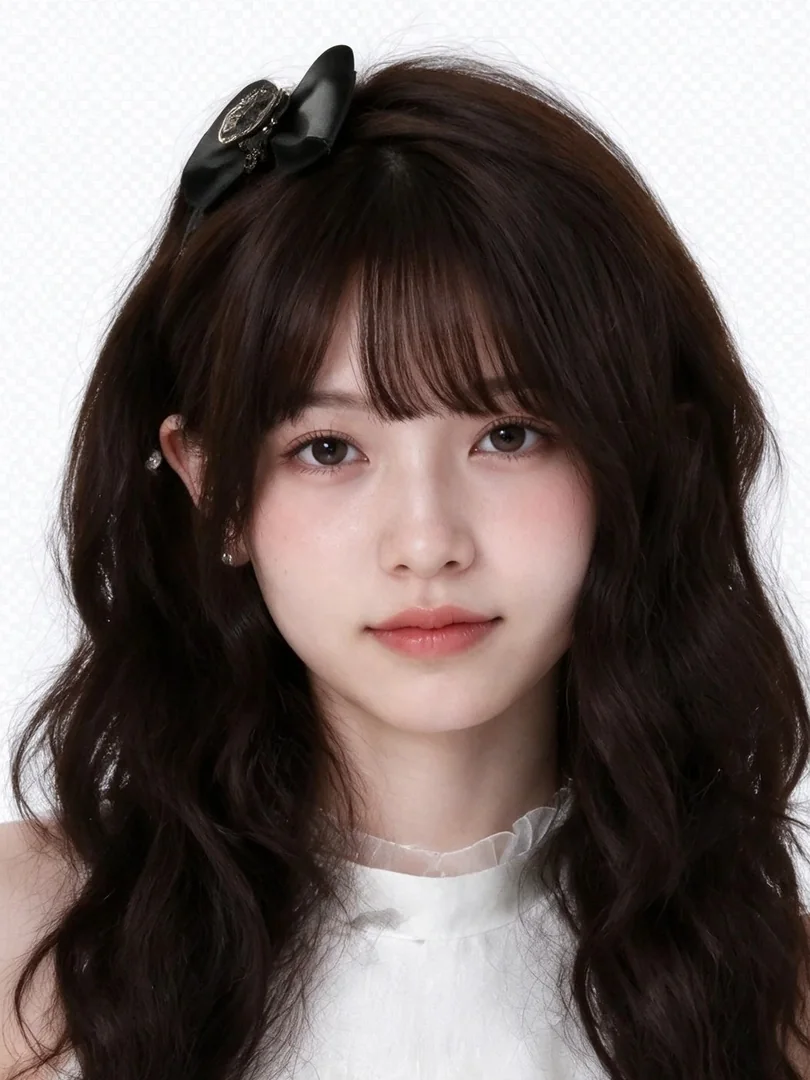
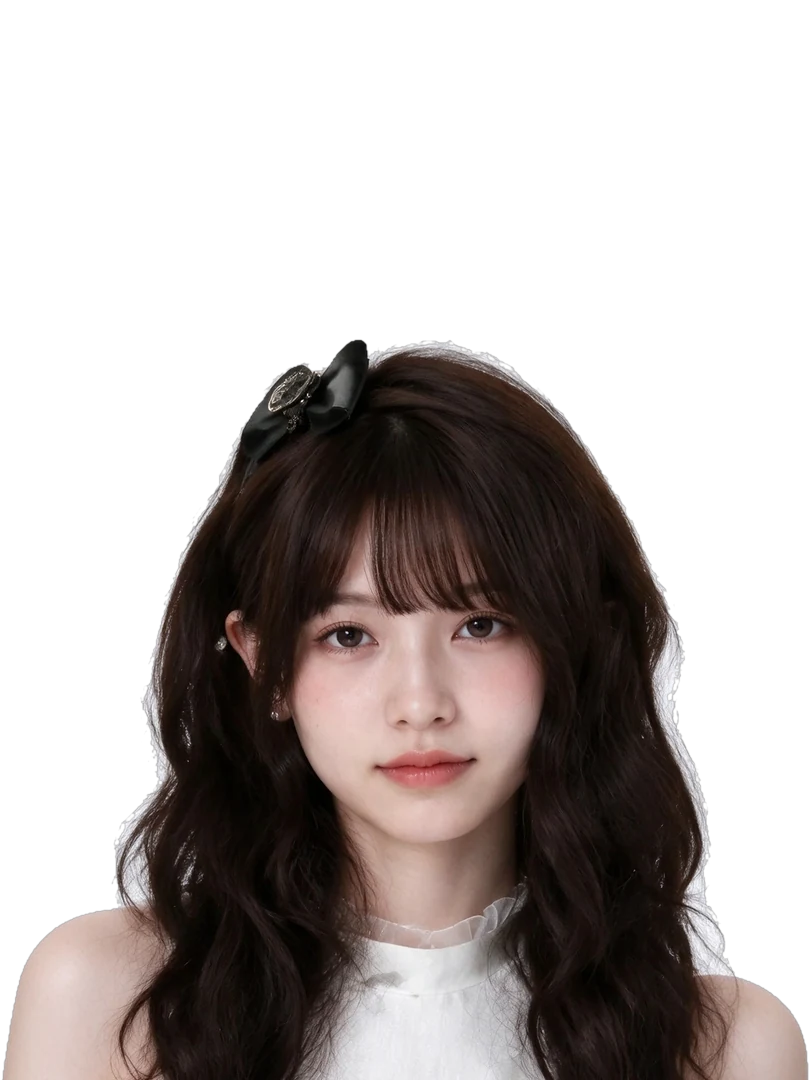
立绘

diff --git a/src/ui/ui.js b/src/ui/ui.js
@@ -352,6 +352,8 @@ export function createApp(ctx) {
     if (!ch) return null;
     const file = (ch.portrait && ch.portrait.file) || '';
     const silhouette = !file || (ch.portrait && ch.portrait.silhouette);
+    // cutout：透明底立绘，直接贴到场景上（不套白卡、不裁底、不画名牌）
+    const cutout = !silhouette && !!(ch.portrait && ch.portrait.cutout);
     const emo = emotion || 'neutral';
     const art = silhouette
       ? null
@@ -359,8 +361,9 @@ export function createApp(ctx) {
           class: 'vn-npc__art',
           style: 'background-image:url("' + file + '")',
         });
+    const mods = (silhouette ? ' vn-npc--silhouette' : '') + (cutout ? ' vn-npc--cutout' : '');
     return h('div', {
-      class: 'vn-npc vn-npc--' + emo + (silhouette ? ' vn-npc--silhouette' : ''),
+      class: 'vn-npc vn-npc--' + emo + mods,
       'aria-hidden': 'true',
     }, [
       h('div', { class: 'vn-npc__card' }, [
@@ -370,7 +373,7 @@ export function createApp(ctx) {
               h('span', { class: 'vn-npc__initial' }, [String(ch.name || '?').slice(0, 1)]),
             ])
           : null,
-        h('div', { class: 'vn-npc__plate' }, [String(ch.name || '')]),
+        cutout ? null : h('div', { class: 'vn-npc__plate' }, [String(ch.name || '')]),
       ]),
     ]);
   }
@@ -2024,11 +2027,12 @@ export function createApp(ctx) {
       const got = allEvents().filter((e) => e && e.charId === c.id && seen.indexOf(e.id) >= 0).length;
       const file = (c.portrait && c.portrait.file) || '';
       const silhouette = !file || (c.portrait && c.portrait.silhouette);
+      const cutout = !silhouette && !!(c.portrait && c.portrait.cutout);
       const pct = Math.max(0, Math.min(100, (Number(rel.affinity) || 0) / max * 100));
       return h('div', { class: 'vn-rel' + (rel.met ? '' : ' is-unmet') }, [
         h('div', { class: 'vn-rel__card' }, [
           h('div', {
-            class: 'vn-rel__art' + (silhouette ? ' is-silhouette' : ''),
+            class: 'vn-rel__art' + (silhouette ? ' is-silhouette' : '') + (cutout ? ' is-cutout' : ''),
             style: silhouette ? '' : 'background-image:url("' + file + '")',
           }, silhouette
             ? [h('span', { class: 'vn-rel__initial' }, [String(c.name || '?').slice(0, 1)])]

diff --git a/css/style.css b/css/style.css
@@ -4527,6 +4527,36 @@ body { font-synthesis: none; }
   text-shadow: 0 10px 30px rgba(0, 0, 0, 0.4);
 }
 
+/* 37.1b 透明底立绘（cutout）：不套白卡、不裁底、不画名牌，直接站在场景里 */
+.vn-npc--cutout { width: min(460px, 34vw); height: min(84vh, 760px); }
+.vn-npc--cutout .vn-npc__card {
+  background: none;
+  box-shadow: none;
+  border-radius: 0;
+  overflow: visible;
+  -webkit-mask-image: none;
+  mask-image: none;
+}
+.vn-npc--cutout .vn-npc__art {
+  background-size: contain;
+  background-position: bottom center;
+  background-repeat: no-repeat;
+  filter: drop-shadow(0 22px 26px rgba(20, 16, 15, 0.38));
+}
+.vn-event__npc .vn-npc--cutout { height: 100%; }
+/* 事件弹层里的立绘底下没有对话框挡着，给最后一段加一点渐隐，避免看到「截断的胸口」 */
+.vn-event__npc .vn-npc--cutout .vn-npc__art {
+  -webkit-mask-image: linear-gradient(180deg, #000 86%, rgba(0, 0, 0, 0) 100%);
+  mask-image: linear-gradient(180deg, #000 86%, rgba(0, 0, 0, 0) 100%);
+}
+.vn-rel__art.is-cutout {
+  background-color: transparent;
+  background-size: contain;
+  background-position: bottom center;
+  background-repeat: no-repeat;
+  filter: drop-shadow(0 8px 14px rgba(20, 16, 15, 0.18));
+}
+
 /* 37.2 事件里的角色立绘：贴在事件卡右侧 */
 .vn-event__npc {
   position: absolute;

diff --git a/tools/_cutout.py b/tools/_cutout.py
@@ -1,0 +1,159 @@
+"""
+把「近白/浅棋盘格底」的立绘抠成透明底，输出 810x1080 RGBA WebP。
+
+做法（无 scipy 依赖）：
+  1. 取图像的浅色背景参考色（只采上/左/右三边，避开底部衣物）；
+  2. 在 640 长边的缩略图上，把「与背景色差 ≤ tol」的像素标成 bg 候选；
+  3. 从顶部/左右边界做 BFS，只有 bg 候选会被填；底部不播种，避免漏进白衣服；
+  4. 缩略 mask 放大回原图，再向下「填洞」（图内未连到边界的 bg 候选算前景）；
+  5. alpha 羽化 1px，裁到内容包围盒，等比缩到高 1080，底对齐放在 810x1080 透明画布上。
+"""
+from PIL import Image, ImageFilter
+from collections import deque
+import numpy as np
+import os
+import sys
+
+SRC = {
+    'jiangxu': '豆包.png',
+    'guchi': '豆包 (1).png',
+    'linyu': '豆包 (2).png',
+    'suwan': '豆包 (3).png',
+    'tangtang': '豆包 (5).png',
+    'zhouye': '豆包 (6).png',
+}
+IN_DIR = r"C:\Users\Le'novo\Downloads"
+OUT_DIR = os.path.join('media', 'characters')
+CHECK_DIR = os.path.join('media', 'shots', 'charcheck')
+TOL = int(sys.argv[1]) if len(sys.argv) > 1 else 16
+# 个别图的浅色衣服与白底几乎同色，用更低的容差可以让填充停在衣服的阴影边缘
+TOL_BY_CHAR = {'guchi': 6}
+CHECK = '--check' in sys.argv
+
+
+def bg_reference(arr):
+    h, w, _ = arr.shape
+    pts = []
+    for x in range(0, w, 7):
+        pts.append(arr[2, x]); pts.append(arr[max(0, h // 6), x])
+    for y in range(0, h // 2, 7):
+        pts.append(arr[y, 2]); pts.append(arr[y, w - 3])
+    med = np.median(np.array(pts, dtype=np.float32), axis=0)
+    return med
+
+
+def build_alpha(rgb, tol=TOL):
+    arr = np.asarray(rgb, dtype=np.float32)
+    h, w, _ = arr.shape
+    ref = bg_reference(arr)
+
+    small_max = 640
+    scale = min(1.0, small_max / max(h, w))
+    sw, sh = max(8, int(w * scale)), max(8, int(h * scale))
+    small = np.asarray(rgb.resize((sw, sh), Image.LANCZOS), dtype=np.float32)
+
+    diff = np.abs(small - ref).max(axis=2)
+    bg_cand = diff <= tol
+
+    filled = np.zeros((sh, sw), dtype=bool)
+    dq = deque()
+    # 播种：整条上边界 + 左/右边界上半段。
+    # 下半段不播种：那里通常是白衬衫/浅色衣服贴着画面边，播进去会把衣服啃掉一块。
+    seed_bottom = int(sh * 0.70)
+    for x in range(sw):
+        if bg_cand[0, x]:
+            filled[0, x] = True; dq.append((0, x))
+    for y in range(seed_bottom):
+        for x in (0, sw - 1):
+            if bg_cand[y, x] and not filled[y, x]:
+                filled[y, x] = True; dq.append((y, x))
+    while dq:
+        y, x = dq.popleft()
+        for dy, dx in ((1, 0), (-1, 0), (0, 1), (0, -1)):
+            ny, nx = y + dy, x + dx
+            if 0 <= ny < sh and 0 <= nx < sw and bg_cand[ny, nx] and not filled[ny, nx]:
+                filled[ny, nx] = True
+                dq.append((ny, nx))
+
+    alpha_small = np.where(filled, 0, 255).astype(np.uint8)
+    # 边缘软化：紧贴背景的一圈按「与背景的色差」给半透明，
+    # 把白底合成留下的白雾变成自然的柔边，而不是一圈硬白边
+    dil = filled.copy()
+    for _ in range(4):
+        nd = dil.copy()
+        nd[1:, :] |= dil[:-1, :]
+        nd[:-1, :] |= dil[1:, :]
+        nd[:, 1:] |= dil[:, :-1]
+        nd[:, :-1] |= dil[:, 1:]
+        dil = nd
+    band = dil & ~filled
+    ramp = (np.clip((diff - 6.0) / 26.0, 0.0, 1.0) * 255.0).astype(np.uint8)
+    alpha_small[band] = np.minimum(alpha_small[band], ramp[band])
+    alpha = Image.fromarray(alpha_small, 'L').resize((w, h), Image.BILINEAR)
+    # 图内「没连到边界的浅色区域」也算前景（白衬衫/白毛衣不被挖空）
+    filled_full = np.asarray(alpha, dtype=np.uint8) < 128
+    alpha = Image.fromarray(np.where(filled_full, 0, 255).astype(np.uint8), 'L')
+
+    # 羽化边缘
+    alpha = alpha.filter(ImageFilter.GaussianBlur(1.0))
+    return alpha
+
+
+def main():
+    os.makedirs(OUT_DIR, exist_ok=True)
+    if CHECK:
+        os.makedirs(CHECK_DIR, exist_ok=True)
+    for cid, name in SRC.items():
+        path = os.path.join(IN_DIR, name)
+        im = Image.open(path).convert('RGB')
+        # 先切掉底部 10%（AI 水印所在行），再做抠图；游戏里下半身本来就被对话框盖住
+        im = im.crop((0, 0, im.width, int(im.height * 0.90)))
+        alpha = build_alpha(im, TOL_BY_CHAR.get(cid, TOL))
+        # 向内收 1px，去掉浅色背景在边缘留下的白边
+        alpha = alpha.filter(ImageFilter.MinFilter(3)).filter(ImageFilter.GaussianBlur(0.8))
+        bbox = alpha.getbbox()
+        if not bbox:
+            print('!! no content', cid); continue
+        cut = im.crop(bbox)
+        raw = cut.copy()          # 保留未去白底的原色，KEEP 区域用它覆盖
+        a = alpha.crop(bbox)
+        cut.putalpha(a)
+
+        # 去白边（decontaminate）：原图是「人像合成在白底」上的，
+        # 半透明边缘像素 = a*C + (1-a)*白，反解出 C，避免人物边上留一圈白雾。
+        arr = np.asarray(cut.convert('RGB'), dtype=np.float32)
+        av = np.asarray(a, dtype=np.float32) / 255.0
+        safe = np.clip(av, 0.18, 1.0)[..., None]
+        arr = np.clip((arr - (1.0 - safe) * 255.0) / safe, 0, 255).astype(np.uint8)
+        cut = Image.fromarray(arr, 'RGB')
+        cut.putalpha(a)
+
+        # 等比缩放到高 1080，底对齐放到 810x1080 透明画布
+        cw, ch = cut.size
+        target_h = 1080
+        target_w = max(1, round(cw * target_h / ch))
+        if target_w > 810:
+            target_w = 810
+            target_h = max(1, round(ch * target_w / cw))
+        cut = cut.resize((target_w, target_h), Image.LANCZOS)
+        raw = raw.resize((target_w, target_h), Image.LANCZOS)
+        canvas = Image.new('RGBA', (810, 1080), (0, 0, 0, 0))
+        canvas.paste(cut, ((810 - target_w) // 2, 1080 - target_h), cut)
+
+        dst = os.path.join(OUT_DIR, cid + '.webp')
+        canvas.save(dst, 'WEBP', quality=88, method=6)
+        kept = (np.asarray(canvas.getchannel('A')) > 8).mean() * 100
+        print(f'{cid:9s} {name:12s} bbox={bbox} -> {canvas.size} '
+              f'{os.path.getsize(dst)}B  opaque={kept:.1f}%')
+
+        if CHECK:
+            for tag, bg in (('magenta', (255, 0, 255)), ('dark', (28, 24, 22)), ('paper', (250, 247, 246))):
+                flat = Image.new('RGB', canvas.size, bg)
+                flat.paste(canvas, (0, 0), canvas)
+                flat.convert('RGB').resize((405, 540), Image.LANCZOS).save(
+                    os.path.join(CHECK_DIR, f'{cid}-{tag}.jpg'), 'JPEG', quality=88)
+    if CHECK:
+        print('check composites ->', CHECK_DIR)
+
+
+main()

diff --git a/docs/角色系统.md b/docs/角色系统.md
@@ -210,11 +210,22 @@ state.storylines  = { line_linyu: { step: 1, status: 'active', since: 3, lastTur
 | 项 | 值 |
 |---|---|
 | 目录 | `media/characters/`（玩家立绘仍在 `assets/char/`，两者分开：一个是「我」，一个是「他们」） |
-| 尺寸 | 810×1080（3:4 竖版），WebP，约 70–90 KB |
-| 构图 | 头部占上半幅、肩线在 70% 左右；**底部 8% 会被裁掉**（原图水印/边缘） |
-| 背景 | 纯色即可（UI 用圆角卡片 + 底部渐隐遮罩，不做透明抠图） |
+| 尺寸 | 810×1080（3:4 竖版），WebP **带 alpha**，约 55–100 KB |
+| 构图 | 头肩半身，底边对齐画布底边、水平居中；**底部 10% 会被裁掉**（原图水印/边缘） |
+| 背景 | **必须是透明底**（`cutout` 模式）：UI 不套白卡、不裁底、不画名牌，立绘直接站在场景上 |
 | 命名 | `<charId>.webp`，角色 id 与 `characters.json` 一致 |
+| 配置 | `portrait: { "file": "media/characters/<id>.webp", "cutout": true }` |
+| 没图时 | `portrait: { "file": "", "silhouette": true }` → UI 画剪影卡兜底 |
 | 表情差分 | 预留：把 `<charId>_<emotion>.webp` 放进来后，在 `lines[].emotion` 处切换即可（当前用 CSS 滤镜模拟） |
+
+### 关于「透明底」
+
+- 目前仓库里的 6 张图是**从白底合成图自动抠出来的**：收到的上传文件其实是 RGB（无 alpha），
+  背景是近乎纯白/浅格纹，`tools/_cutout.py` 用「边界连通填充 + 边缘柔化 + 去白边」把它们变成带 alpha 的 WebP。
+- 如果你手上有**真·透明底 PNG**（导出时勾选「保留透明背景」），直接覆盖 `media/characters/<id>.webp`
+  （或把 PNG 给我，我按同一规格转），边缘会比我自动抠的更干净，代码与配置都不用改。
+- 自动抠图的已知瑕疵：浅色衣料贴近画面边缘时可能有轻微缺口/白雾（顾迟的右肩最明显），
+  深色场景下能看出一点柔边。这是「无 alpha 源图」的物理上限，不是 UI 的问题。
 
 ---
 
@@ -222,7 +233,7 @@ state.storylines  = { line_linyu: { step: 1, status: 'active', since: 3, lastTur
 
 ```bash
 npm test                                  # 5 套全绿（smoke / verify_ui / audio / settings / characters）
-node tests/verify_characters.mjs          # 角色系统专项：52 项
+node tests/verify_characters.mjs          # 角色系统专项：54 项
 node server.js                            # 本地看效果：http://localhost:5173
 ```
 
@@ -232,7 +243,7 @@ node server.js                            # 本地看效果：http://localhost:5
 - 新局初始化 relations / storylines；旧存档幂等补全；
 - 6 条线各自能走到自己的真结局；保守选择拿温暖结局；冷落断线拿普通结局；谁都不选则没有角色结局；
 - 同种子完全可复现；剧情事件不重复触发；
-- UI 结构（DOM 桩）：事件里的 NPC 立绘、台词分段与点击推进、选项等待态、好感提示、关系面板 6 张卡。
+- UI 结构（DOM 桩）：事件里的 NPC 立绘、cutout 模式（不套白卡、不画名牌）、台词分段与点击推进、选项等待态、好感提示、关系面板 6 张卡。
 
 浏览器里手动验证的入口（dev 专用，不影响正式页面）：`dev/shot.html?scene=event&char=linyu&click=1&dev=1`，
 `scene` 可取 `welcome / event / result / relations`。

diff --git a/assets/README.md b/assets/README.md
@@ -164,15 +164,18 @@ APPEARANCES.push({
 | 项 | 规格 |
 |---|---|
 | 尺寸 | 810×1080（3:4 竖版） |
-| 格式 / 体积 | WebP，约 70–90 KB |
-| 构图 | 头部占上半幅，肩线约 70%；**底部 8% 会被裁掉**（去掉原图水印与边缘） |
-| 背景 | 纯色即可：UI 用圆角卡片 + 底部渐隐，不做透明抠图 |
+| 格式 / 体积 | WebP **带透明通道**，约 55–100 KB |
+| 构图 | 头肩半身，底边对齐画布底边、水平居中；**底部 10% 会被裁掉**（去掉原图水印与边缘） |
+| 背景 | **透明**：配置里 `portrait.cutout: true`，UI 不套白卡、不裁底、不画名牌，立绘直接站在场景上 |
 | 命名 | `<charId>.webp`（与 `config/characters.json` 的 id 一致，如 `linyu.webp`） |
 | 表情差分 | 预留 `<charId>_<emotion>.webp`；当前用 CSS 滤镜模拟，不需要额外文件 |
 
-当前 6 名角色都有立绘：`jiangxu / guchi / linyu / suwan / zhouye / tangtang`。
+当前 6 名角色都有立绘：`jiangxu / guchi / linyu / suwan / zhouye / tangtang`，全部是带 alpha 的 cutout。
+这批图是从白底合成图自动抠出来的（收到的源文件是 RGB、没有 alpha），
+生产脚本：`tools/_cutout.py`（边界连通填充 + 边缘柔化 + 去白边）。
+
 如果之后新加一个角色、暂时没有图，把 `characters.json` 里 `portrait.file` 留空并设 `portrait.silhouette: true`，
-UI 会画剪影卡兜底；放好正式图后改回 `file` 即可。
+UI 会画剪影卡兜底；放好正式图后改回 `file` 并把 `cutout` 设为 `true` 即可。
 
 
 

diff --git a/docs/验收/角色系统-v2.1.md b/docs/验收/角色系统-v2.1.md
@@ -81,7 +81,8 @@ node server.js          # http://localhost:5173
 - 结论：**✅ 通过**
 - 遗留（非阻塞，进下一周期）：
   1. 表情差分是 CSS 滤镜，不是正式差分图（放好图后按 `lines[].emotion` 切）；
-  2. 周野 / 唐棠的立绘已补齐（810×1080，与另外四张同规格）；
+  2. 6 张立绘已全部补齐并改成 cutout（透明底、不套白卡）；源图上没有 alpha，是用 `tools/_cutout.py` 自动抠的，
+     浅色衣料贴边的位置（顾迟右肩）还有一点瑕疵，等真·透明底 PNG 到位可直接替换；
   3. 沙箱限制导致浏览器像素级回归没进 CI（需要一台能起 Edge 的机器跑 `tests/unit/a-browser-characters.mjs`）；
   4. `docs/验收/README.md` 的看板尚未加 v2.1 这一行（等 B/C/D 交叉验收后补）。
 - 证据：`npm test` 输出见 §2；设计文档 `docs/角色系统.md`；契约 `docs/CONTRACT.md` 附录 C。
